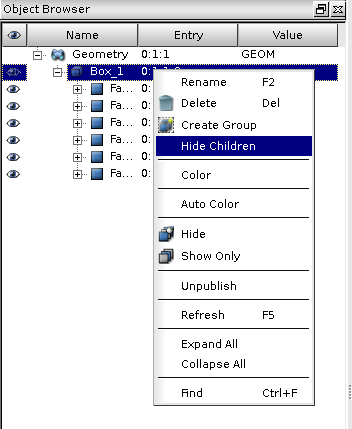
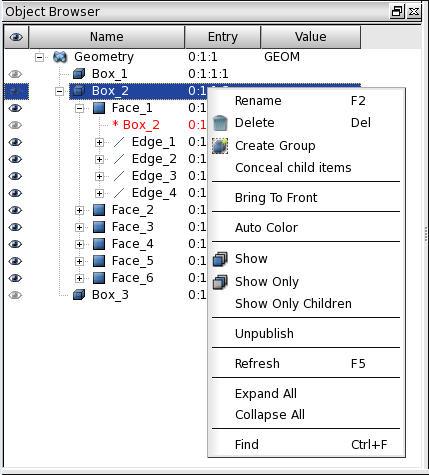
Mantis issue 0021689: [CEA 571] Improve visualization of selected object in GEOM

Changed region(s): [[0.0, 0.0, 1.0, 1.0]]

diff --git a/src/GEOMGUI/GEOM_msg_en.ts b/src/GEOMGUI/GEOM_msg_en.ts
@@ -2447,6 +2447,10 @@ Please, select face, shell or solid and try again</translation>
         <translation>Show Only</translation>
     </message>
     <message>
+        <source>MEN_SHOW_ONLY_CHILDREN</source>
+        <translation>Show Only Children</translation>
+    </message>
+    <message>
         <source>MEN_BRING_TO_FRONT</source>
         <translation>Bring To Front</translation>
     </message>
@@ -2703,12 +2707,12 @@ Please, select face, shell or solid and try again</translation>
         <translation>Create Group</translation>
     </message>
     <message>
-        <source>MEN_POP_SHOW_CHILDREN</source>
-        <translation>Show Children</translation>
+        <source>MEN_POP_DISCLOSE_CHILDREN</source>
+        <translation>Disclose child items</translation>
     </message>
     <message>
-        <source>MEN_POP_HIDE_CHILDREN</source>
-        <translation>Hide Children</translation>
+        <source>MEN_POP_CONCEAL_CHILDREN</source>
+        <translation>Conceal child items</translation>
     </message>
     <message>
         <source>MEN_POP_UNPUBLISH_OBJ</source>
@@ -3275,6 +3279,10 @@ Please, select face, shell or solid and try again</translation>
         <translation>Show only</translation>
     </message>
     <message>
+        <source>STB_SHOW_ONLY_CHILDREN</source>
+        <translation>Show Only Children</translation>
+    </message>
+    <message>
         <source>STB_EDGE</source>
         <translation>Build an edge</translation>
     </message>
@@ -3479,10 +3487,6 @@ Please, select face, shell or solid and try again</translation>
         <translation>Create Group</translation>
     </message>
     <message>
-        <source>STB_POP_SHOW_CHILDREN</source>
-        <translation>Show child objects</translation>
-    </message>
-    <message>
         <source>STB_POP_UNPUBLISH_OBJ</source>
         <translation>Unpublish object</translation>
     </message>
@@ -3491,8 +3495,12 @@ Please, select face, shell or solid and try again</translation>
         <translation>Publish object</translation>
     </message>
     <message>
-        <source>STB_POP_HIDE_CHILDREN</source>
-        <translation>Hide child objects</translation>
+        <source>STB_POP_DISCLOSE_CHILDREN</source>
+        <translation>Disclose child items</translation>
+    </message>
+    <message>
+        <source>STB_POP_CONCEAL_CHILDREN</source>
+        <translation>Conceal child items</translation>
     </message>
     <message>
         <source>STB_POP_ISOS</source>
@@ -3895,6 +3903,10 @@ Please, select face, shell or solid and try again</translation>
         <translation>Show only</translation>
     </message>
     <message>
+        <source>TOP_SHOW_ONLY_CHILDREN</source>
+        <translation>Show Only Children</translation>
+    </message>
+    <message>
         <source>TOP_EDGE</source>
         <translation>Build edge</translation>
     </message>
@@ -4095,10 +4107,6 @@ Please, select face, shell or solid and try again</translation>
         <translation>Create Group</translation>
     </message>
     <message>
-        <source>TOP_POP_SHOW_CHILDREN</source>
-        <translation>Show Children</translation>
-    </message>
-    <message>
         <source>TOP_POP_UNPUBLISH_OBJ</source>
         <translation>Unpublish object</translation>
     </message>
@@ -4107,8 +4115,12 @@ Please, select face, shell or solid and try again</translation>
         <translation>Publish object</translation>
     </message>
     <message>
-        <source>TOP_POP_HIDE_CHILDREN</source>
-        <translation>Hide Children</translation>
+        <source>TOP_POP_DISCLOSE_CHILDREN</source>
+        <translation>Disclose child items</translation>
+    </message>
+    <message>
+        <source>TOP_POP_CONCEAL_CHILDREN</source>
+        <translation>Conceal child items</translation>
     </message>
     <message>
         <source>TOP_POP_ISOS</source>

diff --git a/src/GEOMGUI/GeometryGUI_Operations.h b/src/GEOMGUI/GeometryGUI_Operations.h
@@ -50,13 +50,12 @@ namespace GEOMOp {
     OpPointMarker         = 1210,   // POPUP MENU - POINT MARKER
     OpSetTexture          = 1211,   // POPUP MENU - SETTEXTURE
     OpMaterialProperties  = 1212,   // POPUP MENU - MATERIAL PROPERTIES
-    OpShowChildren        = 1250,   // POPUP MENU - SHOW CHILDREN
-    OpHideChildren        = 1251,   // POPUP MENU - HIDE CHILDREN
+    OpDiscloseChildren    = 1250,   // POPUP MENU - DISCLOSE CHILD ITEMS
+    OpConcealChildren     = 1251,   // POPUP MENU - CONCEAL CHILD ITEMS
     OpUnpublishObject     = 1253,   // POPUP MENU - UNPUBLISH
     OpPublishObject       = 1254,   // GEOM ROOT OBJECT - POPUP MENU - PUBLISH
     OpEdgeWidth           = 1260,   // POPUP MENU - LINE WIDTH - EDGE WIDTH
     OpIsosWidth           = 1261,   // POPUP MENU - LINE WIDTH - ISOS WIDTH
-
     // DisplayGUI ------------------//--------------------------------
     OpSwitchVectors       = 2001,   // MENU VIEW  - DISPLAY MODE - SHOW/HIDE EDGE DIRECTION
     OpShowAll             = 2002,   // MENU VIEW  - SHOW ALL
@@ -67,6 +66,7 @@ namespace GEOMOp {
     OpShow                = 2100,   // POPUP MENU - SHOW
     OpShowOnly            = 2101,   // POPUP MENU - SHOW ONLY
     OpHide                = 2102,   // POPUP MENU - HIDE
+    OpShowOnlyChildren    = 2103,   // POPUP MENU - SHOW ONLY CHILDREN
     OpWireframe           = 2200,   // POPUP MENU - DISPLAY MODE - WIREFRAME
     OpShading             = 2201,   // POPUP MENU - DISPLAY MODE - SHADING
     OpShadingWithEdges    = 2202,   // POPUP MENU - DISPLAY MODE - SHADING WITH EDGES

diff --git a/src/GEOMGUI/GEOMGUI_Selection.h b/src/GEOMGUI/GEOMGUI_Selection.h
@@ -18,11 +18,10 @@
 // Foundation, Inc., 59 Temple Place, Suite 330, Boston, MA  02111-1307 USA
 //
 // See http://www.salome-platform.org/ or email : webmaster.salome@opencascade.com
-//
 
 // File   : GEOMGUI_Selection.h
 // Author : Alexander SOLOVYOV, Open CASCADE S.A.S. (alexander.solovyov@opencascade.com)
-//
+
 #ifndef GEOMGUI_SELECTION_H
 #define GEOMGUI_SELECTION_H
 
@@ -66,8 +65,9 @@ private:
   QString               displayMode( const int ) const;
   QString               selectionMode() const;
   bool                  isVectorsMode( const int ) const;
-  bool                  hasHiddenChildren( const int ) const;
-  bool                  hasShownChildren( const int ) const;
+  bool                  hasChildren( const int ) const;
+  bool                  hasConcealedChildren( const int ) const;
+  bool                  hasDisclosedChildren( const int ) const;
   bool                  compoundOfVertices( const int ) const;
   bool                  topLevel( const int ) const;
   bool                  isPhysicalMaterial( const int ) const;

diff --git a/src/DisplayGUI/DisplayGUI.h b/src/DisplayGUI/DisplayGUI.h
@@ -18,12 +18,11 @@
 // Foundation, Inc., 59 Temple Place, Suite 330, Boston, MA  02111-1307 USA
 //
 // See http://www.salome-platform.org/ or email : webmaster.salome@opencascade.com
-//
 
 // GEOM GEOMGUI : GUI for Geometry component
 // File   : DisplayGUI.h
 // Author : Damien COQUERET, Open CASCADE S.A.S.
-//
+
 #ifndef DISPLAYGUI_H
 #define DISPLAYGUI_H
 
@@ -53,6 +52,8 @@ public:
   void Display();
   // Display selected GEOM objects and erase other
   void DisplayOnly();
+  // Display only children of selected GEOM objects and erase other
+  void DisplayOnlyChildren();
   // Erase selected GEOM objects
   void Erase();
 

diff --git a/src/GEOMToolsGUI/GEOMToolsGUI.h b/src/GEOMToolsGUI/GEOMToolsGUI.h
@@ -77,7 +77,7 @@ private:
   void         OnNbIsos( ActionType actionType = SHOWDLG );
   void         OnDeflection();
   void         OnSelectOnly(int mode);
-  void         OnShowHideChildren( bool );
+  void         OnDiscloseConcealChildren( bool );
   void         OnUnpublishObject();
   void         OnPublishObject() ;
   void         OnPointMarker();
